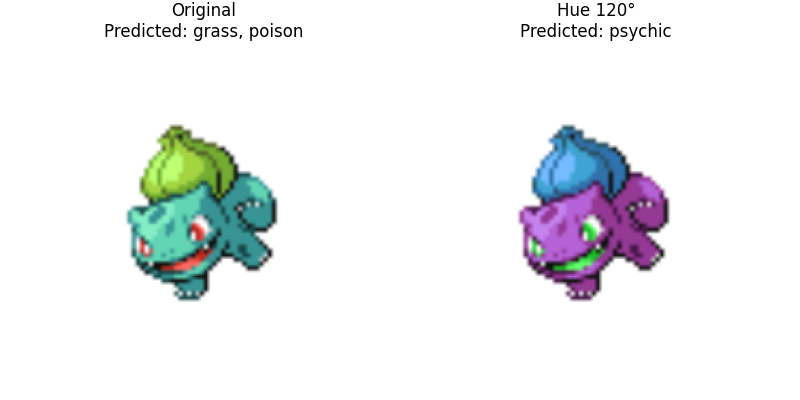
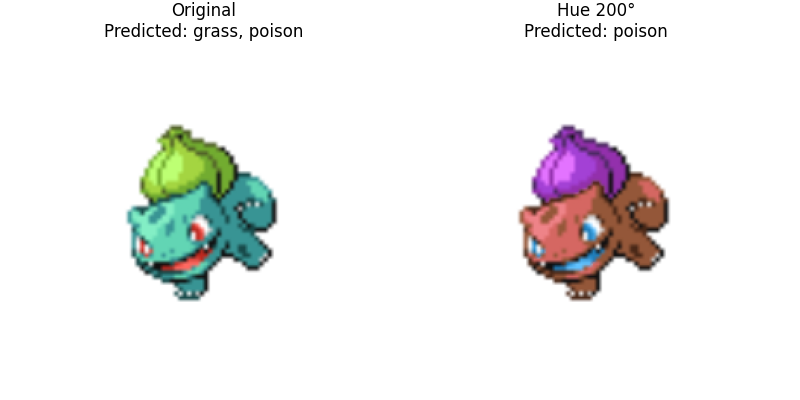
*added smooth grad *changed saliency map to be same format *tried gradcam and failed

Changed region(s): [[0.625, 0.3, 0.8438, 0.75], [0.625, 0.0, 0.8438, 0.12]]

diff --git a/vistest.py b/vistest.py
@@ -1,15 +1,19 @@
 import torch
 import matplotlib.pyplot as plt
 import numpy as np
-import torchvision.transforms.functional as F
+#import torchvision.transforms.functional as F
+import torch.nn.functional as F
 from train_model import load_model, get_device
+from data import get_dataset, deencode_types, image_unpreprocess
+import tensorflow as tf
+from tf_keras_vis.saliency import Saliency
 
 """
     single sample explanation 
     -Grad-CAM saliency heatmap
     -Gradient contribution for tabular input
 """
-def visualize_sample(cnn, tab_net, classifier, image, tabular, label_names, true_label=None, device=None):
+def contribution(cnn, tab_net, classifier, image, tabular, label_names, true_label=None, device=None):
     if device is None:
         device = get_device()
 
@@ -22,21 +26,6 @@ def visualize_sample(cnn, tab_net, classifier, image, tabular, label_names, true
 
     image.requires_grad = True
     tabular.requires_grad = True
-
-    img_feat = cnn(image)
-    tab_feat = tab_net(tabular)
-    combined = torch.cat((img_feat, tab_feat), dim=1)
-    output = classifier(combined)
-    probs = torch.sigmoid(output)
-    pred_vec = (probs > 0.5).float()[0]
-
-    top_idx = torch.topk(probs[0], 1).indices.item()
-
-    #gradient for class
-    classifier.zero_grad()
-    cnn.zero_grad()
-    tab_net.zero_grad()
-    output[0, top_idx].backward(retain_graph=True)
 
     #tab gradient map
     tab_grad = tabular.grad.abs().squeeze().cpu().numpy()
@@ -53,19 +42,13 @@ def visualize_sample(cnn, tab_net, classifier, image, tabular, label_names, true
     tab_contrib = tab_importance / total_importance
 
 
-    heatmap = (image_grad - image_grad.min()) / (image_grad.max() - image_grad.min() + 1e-8)
 
     from data import image_unpreprocess
     img_disp = image_unpreprocess(image.squeeze().detach().cpu())
     img_disp = img_disp.permute(1, 2, 0).clip(0, 1).numpy()
 
     #lets just pray it work
-    fig, axs = plt.subplots(1, 2, figsize=(15, 4))
-
-    axs[0].imshow(img_disp)
-    axs[0].imshow(heatmap, cmap='jet', alpha=0.5)
-    axs[0].set_title("Image Gradient Map")
-    axs[0].axis("off")
+    fig, axs = plt.subplots(1, 1, figsize=(15, 4))
 
     axs[1].bar(["Image", "Tabular"], [img_contrib, tab_contrib], color=['orange', 'green'])
     axs[1].set_title("Modality Gradient Contribution")
@@ -77,15 +60,53 @@ def visualize_sample(cnn, tab_net, classifier, image, tabular, label_names, true
     plt.savefig("test_visualization.png")
 
 
-from data import get_dataset, deencode_types
 
-cnn, tab_net, classifier = load_model()
-train_loader, test_loader = get_dataset()
-#sample
-images, stats, labels = next(iter(test_loader))
-SAMPLE = 3
-sample_img, sample_tab, sample_label = images[SAMPLE], stats[SAMPLE], labels[SAMPLE]
-type_names = deencode_types()
+def compute_saliency_map(model, input_tensor):
+    input_tensor = input_tensor.clone().detach().requires_grad_(True)
+    model.zero_grad()
+    output = model(input_tensor)
+    score, _ = output.max(dim=1)
+    score.backward()
+    saliency, _ = input_tensor.grad.abs().max(dim=1)
+    saliency = saliency.squeeze().cpu().numpy()
+    saliency = (saliency - saliency.min()) / (saliency.max() - saliency.min() + 1e-8)
+    return saliency
 
 
-visualize_sample(cnn, tab_net, classifier, sample_img, sample_tab, type_names, true_label=sample_label)
+def compute_SmoothGrad(model, input_tensor, n_samples=25, noise_level=0.1):
+    input_tensor = input_tensor.clone().detach()
+    avg_grad = torch.zeros_like(input_tensor)
+    for _ in range(n_samples):
+        noise = torch.randn_like(input_tensor) * noise_level
+        noisy = (input_tensor + noise).requires_grad_(True)
+        output = model(noisy)
+        score = output.max(dim=1)[0]
+        model.zero_grad()
+        score.backward()
+        avg_grad += noisy.grad.abs()
+    saliency = avg_grad.squeeze().mean(dim=0).cpu().numpy()
+    saliency = (saliency - saliency.min()) / (saliency.max() - saliency.min() + 1e-8)
+    return saliency
+
+
+if __name__ == '__main__':
+    device = get_device()
+    cnn, tab_net, classifier = load_model(device=device)
+    cnn.to(device); tab_net.to(device); classifier.to(device)
+    _, test_loader = get_dataset()
+    images, stats, labels = next(iter(test_loader))
+    img = images[0].unsqueeze(0).to(device)
+
+    #Saliency
+    sal = compute_saliency_map(cnn, img)
+    plt.imsave('saliency_map.png', sal, cmap='jet')
+
+    #SmoothGrad
+    smooth = compute_SmoothGrad(cnn, img)
+    plt.imsave('smoothgrad_map.png', smooth, cmap='jet')
+
+
+    #Modality contribution
+    contribution(cnn, tab_net, classifier,
+                 images[0], stats[0], deencode_types())
+

diff --git a/hue_shift_analysis.py b/hue_shift_analysis.py
@@ -317,7 +317,7 @@ if __name__ == "__main__":
 
     #results = analyze_hue_dependency()
     # Blue → red
-    show_prediction_under_hue_shift(df, sample_idx=3, hue_shift_deg=120)
+    show_prediction_under_hue_shift(df, sample_idx=3, hue_shift_deg=200)
     #plot_hue_shift_results(results, plot_grayscal_acc=True)
     #plot_hue_shift_results(results, plot_grayscal_acc=False)
     
